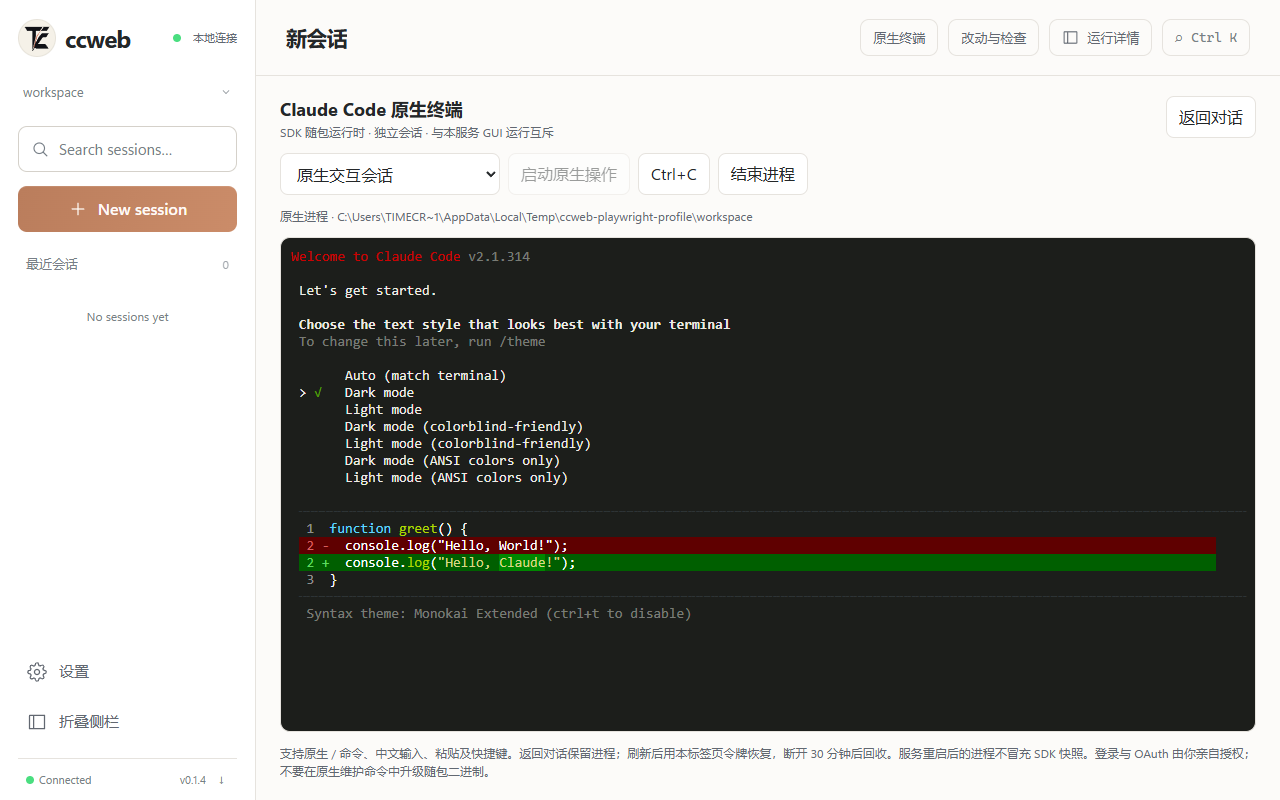
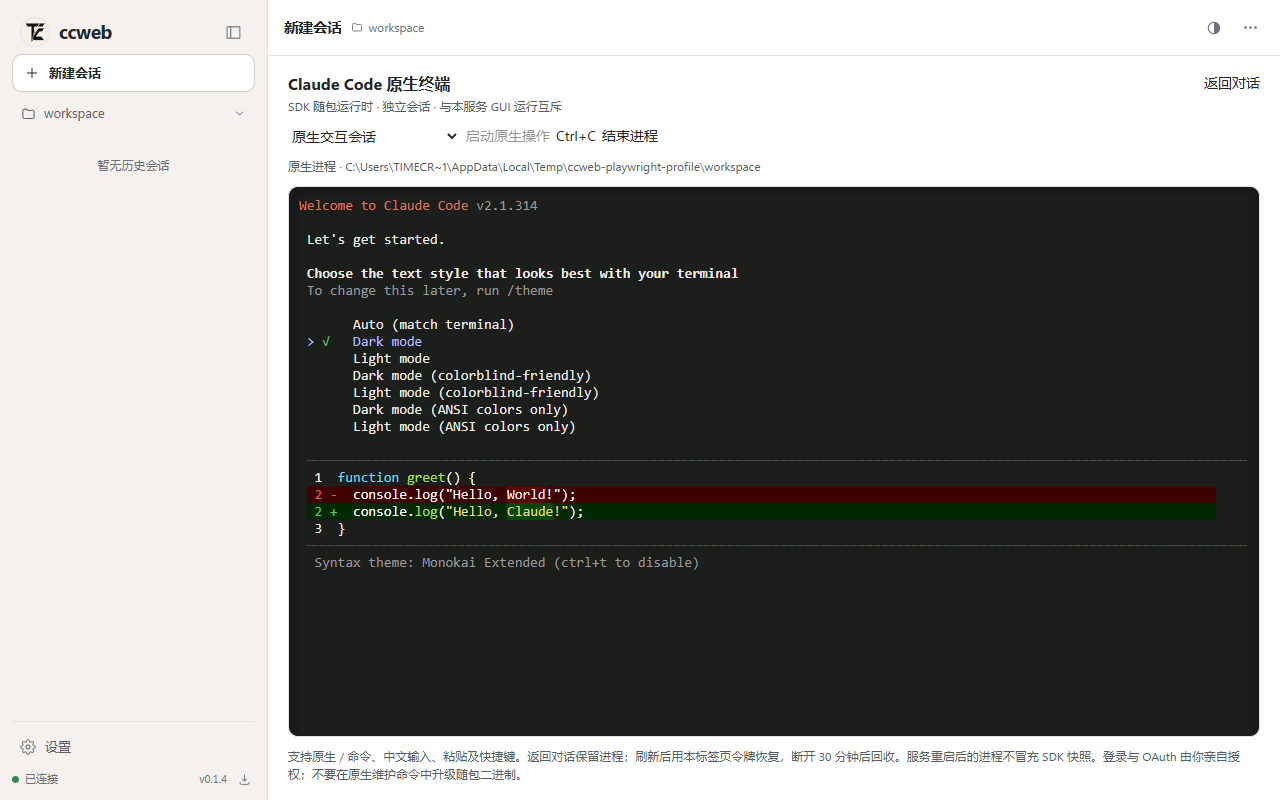
docs(v3): 记录实施、验证分层与实现截图 / record V3 implementation, verification and screenshots
V3 Spec 进度更新为 7/7,追加 §14 实施记录:落地范围、与预览的差异、交互契约、验证分层、反馈逐项结论、UX01–UX14 对照、未验项与同版本交付指纹。
产品诊断与 Backlog 更新 V3 指针;SPEC 顶部改为已实施状态。
README 换用 V3 实际界面图,原生终端改为排障入口,补充模型连接与低噪声指标。
新增 docs/ux-v3/implemented 真实截图(Edge 1440×960,样例数据)与预览对照说明。

diff --git a/docs/UX_V3_EXECUTION_SPEC.md b/docs/UX_V3_EXECUTION_SPEC.md
@@ -2,6 +2,8 @@
 
 日期：2026-10-31。交付对象：DeepSeek Harness 中执行开发的多模态模型。起草时 HEAD 为 `f57d9c9`；实现前重新检查实际 Git，保留后续改动。本文件是**待实施的执行规范**，不是功能完成报告。配套 [交互预览](ux-v3/preview.html)、[浅色工作台](ux-v3/workbench-light.png)、[深色工作台](ux-v3/workbench-dark.png)、[连接设置](ux-v3/connection.png)、[折叠态](ux-v3/collapsed.png)。预览均为设计示意，里面的数据是样例，不是真实任务证据。
 
+> **实施状态（2026-10-31 执行后更新）**：P0–P6 已在工作区实现并通过本地质量门与真实浏览器回归；实际界面截图见 [实现截图](ux-v3/implemented/)，逐项结论、验证分层与未验项见 [§14 实施记录](#14-实施记录2026-10-31)。设计预览保留为方向参考，实际排版按中文可读性做了调整。
+
 ## 1. 本轮任务与优先级变化
 
 用户已经实际使用 ccweb，并明确反馈：功能虽可运行，但客户端不自然、不美观，存在侧栏折叠重叠、工作区弹层布局、点击关闭等可用性缺陷；模型、权限、继承配置和用量的表述过于技术化；原生终端、改动与检查、任务与回退作为主入口显得多余。
@@ -179,15 +181,15 @@
 
 以上是阅读代码得到的入口，不是已在本轮复现全部问题的根因结论。修改前用实际浏览器测量 bounding box、溢出、焦点与调用状态，建立最小复现。
 
-## 10. 建议执行步骤与进度（0/7）
+## 10. 建议执行步骤与进度（7/7，见 §14 实施记录）
 
-- [ ] P0 现场复核：读取规则/本 Spec/8张参考图/预览；核对实际Git、端口和进程。逐条记录反馈、复现步骤、严重程度与关联文件；补充发现的问题归到本轮目标，不自动扩成新产品。
-- [ ] P1 确定新结构：形成最小线框或在现有页面做可回退草稿；确认主入口、折叠栏、模型菜单、用量弹层、连接表单的数据来源。记录与预览不同之处及理由，不强制每一步等待用户批准。
-- [ ] P2 修复基础布局与交互：先侧栏/工作区/弹层/焦点/附件按钮；在真实长路径和折叠态回归后提交独立修复。
-- [ ] P3 完成连接与模型闭环：协议/来源/自有保存兼容、测试状态、错误分类、当前与默认作用范围、模型/工作方式菜单；实际已有连接做一次有界任务，避免重复付费探测。
-- [ ] P4 整理任务过程与结果：清理顶部入口、移除默认终端、压缩用量信息、改动按需、审批/计划/反问/后台与恢复语义；清理不再到达的 UI 与过期文案。
-- [ ] P5 细节统一与自发现修复：深浅主题、缩放、滚动、密度、键盘/中文输入、长内容和空/错/加载态；允许主动修复发现的相关缺陷并补针对性回归。
-- [ ] P6 同版交付：质量门、源码浏览器、实际打包安装、必要真实任务；附最新截图和前后对照、反馈逐项结论、未验项、commit与包指纹。更新本清单及根SPEC/产品审查，分阶段本地提交，不发布/推送。
+- [x] P0 现场复核：读取规则/Spec/参考图/预览；核对 Git、端口与进程；用真实浏览器复现侧栏折叠、工作区弹层、原生终端入口与用量信息层级，建立 fixture 视觉验证闭环。
+- [x] P1 确定新结构：以对话为中心的三段式工作台（侧栏 / 对话 / 按需右侧面板），确定模型与工作方式聚合成菜单、用量锚定弹层、居中设置弹窗与连接表单的数据来源。
+- [x] P2 修复基础布局与交互：重写侧栏展开/折叠、工作区菜单与新增项目表单、统一菜单原语（同级互斥/外点/Esc/视口避让/键盘）、焦点与草稿保护。
+- [x] P3 完成连接与模型闭环：ccweb 自有连接存储、真实连通测试与错误分类、模板兼容合并、模型/工作方式菜单与生效范围说明、认证来源保留。
+- [x] P4 整理任务过程与结果：移除顶栏终端/改动/详情三大入口，终端降级为设置中的排障功能；用量降噪；改动侧面板与运行详情抽屉；任务/回退按需；中断与导航显式确认。
+- [x] P5 细节统一与自发现修复：深浅主题、1280/1440/1920/2560、窄屏抽屉、中文 IME、长路径/长输出、空/错/加载态、文案与对比度统一。
+- [x] P6 同版交付：lint / typecheck / 单测 / 构建 / 39 项 E2E 全通过；新增 V3 契约用例与截图；文档与本地提交。未发布、未推送。
 
 执行者可以合并/调整步骤以减少返工，但不能跳过关键验收、把未验项勾选或每修一个小问题就停止等待“继续”。正常的组件取舍和视觉细节自主决定。涉及更换运行引擎、引入大型协议代理、全局凭证迁移/删除或对其他项目有副作用时，先把方案具体化再提出最小问题；同时继续无依赖工作。
 
@@ -230,3 +232,100 @@
 检查实际Git和运行进程、保留他人后续改动，按P0-P6持续实施并分阶段本地提交。使用真实浏览器看效果，完成相称回归和同版本交付；用户最终验收不免除你的自测。只有登录凭证、破坏性操作或重大未授权架构选择才提具体问题，继续其他独立工作。用户已暂不做官方登录/OAuth，不重复要求。不自动推送/发布，不操作其他项目。
 最终逐条对照 UX01-UX14 和新增问题，提供最新截图、测试分层、提交、包指纹、已修/未验/阻塞，不能只给计划或只修一小块就停止。
 ```
+
+## 14. 实施记录（2026-10-31）
+
+本节记录本轮实际落地内容、与设计预览的差异、验证分层和未验项。产品代码、测试与截图均在本仓库；未发布 npm、未推送远端。
+
+### 14.1 落地范围
+
+| 区域 | 主要改动 |
+| --- | --- |
+| 侧栏 | 展开态与折叠态改为两套独立结构；折叠栏只保留图标 + 无障碍名称，底部仅设置；工作区菜单支持搜索、最近项目、移除记录（只从列表移除，不删目录）、独立新增项目表单与绝对路径校验；会话按今天/昨天/近 7 天/更早分组；项目会话记忆条数多时才出现会话搜索 |
+| 顶栏 | 只保留会话标题、项目名、主题与更多；原生终端、改动、运行详情不再占顶级入口，收进更多菜单与设置 |
+| 输入区 | 新增「＋」附件菜单（图片/引用项目文件）、工作方式菜单、模型聚合菜单；图片入口不再直接触发系统文件表单；发送改为圆形主按钮，停止独立；无连接时就地提示并给出连接入口，草稿始终保留 |
+| 工作方式 | 逐步确认 / 先做计划 / 自动处理 / 自动编辑 / 跳过确认，原生映射不变；高级项分组，跳过确认需显式确认；被运行时拒绝时保持原值并提示 |
+| 模型 | 按已配置连接与运行时发现的模型聚合，支持搜索、连接默认、自定义模型 ID、思考力度；切换连接回到该连接的默认模型 |
+| 用量 | 输入区下方低噪声一行摘要；空态不渲染占位破折号；点击打开锚定弹层，外点/Esc 关闭并回焦；诊断字段收进弹层内部折叠；本轮/会话累计口径明确 |
+| 设置 | 居中模态 + 左侧分类导航，遮罩/Esc/关闭按钮统一走草稿确认；连接页支持保存、发现模型、认证来源、就绪检查；技能/指令/规则/MCP/Hooks/权限沿用原生文件编辑并统一视觉与来源标识 |
+| 连接流程 | ccweb 自有连接存储（`~/.ccweb/connections.json`，0600）；真实连通测试（禁用工具、不重试、20 秒超时）；按字段/状态分类错误；cc-toolkit 旧模板只读兼容合并；凭证不回传 |
+| 结果与过程 | 「本次改动」只在工具真实返回成功后出现，打开的右侧面板与对话并排；运行详情含上下文、调用轨迹、后台任务与文件回退（先预览再确认） |
+| 原生终端 | 从默认工作流与全量命令映射中移除；仅保留设置 → 关于与更新中的开发者排障入口，并明确说明风险 |
+
+### 14.2 与设计预览的差异（有意偏离）
+
+- 空态不放大 Logo：保留小尺寸品牌标记 + 一句任务提示，减少技术说明和快捷键堆砌。
+- 消息流不显示用户/助手头像列：对话内容左对齐、用户气泡右对齐，把横向空间留给中文正文。
+- 「本次改动」使用与对话并排的右侧面板（窄屏改为浮层），而不是覆盖对话的整页；对话和滚动位置始终保留。
+- 侧栏折叠栏高度更紧凑，底部仅设置图标与连接状态点，避免出现被压扁的文字按钮。
+- 连接名称允许中文与任意可读名称；内部模板 key 使用随机 ID，不再把用户输入当作文件名。
+- 设置弹窗按内容密度调整高度并使用内容区滚动，保存动作保持在表单底部可达位置。
+
+### 14.3 交互契约
+
+- 统一菜单原语：同级互斥、外点关闭、Esc 关闭并回焦、方向键/Home/End 导航、Tab 离开关闭、视口内翻转与夹紧、内容超高时内部滚动；中文 IME 组合期间 Enter/Esc 不触发发送或关闭。
+- 设置是唯一模态：遮罩/Esc/关闭按钮都先走草稿确认；保存中不可关闭；关闭后焦点回到打开它的按钮。
+- 导航保护：切换项目/会话/新建时，若存在未发送图片先确认；若任务仍在运行，先提示「继续会先停止它」，确认后才中断并切换，不静默杀任务。
+- 草稿：文字草稿按项目 + 会话持久化，打开设置、折叠侧栏、切换主题、刷新页面都不丢失。
+
+### 14.4 验证分层
+
+| 层 | 结果 | 证据 |
+| --- | --- | --- |
+| 单元/协议（server） | 45 项通过 | `apps/server` vitest：连接存储、URL 规范化、真实探测分类、配置 API、协议与运行校验 |
+| 单元（web） | 23 项通过 | `apps/web` vitest：渲染模型、ANSI、markdown 增量、上下文口径 |
+| 静态检查 | 通过 | `pnpm lint`、`pnpm typecheck`、`pnpm build` |
+| 浏览器 E2E（模拟 SDK + 真实浏览器 Edge） | 39 项通过 | `apps/web/e2e`：V3 契约、运行时、审批/队列、配置编辑、原生终端、布局与截图 |
+| 真实浏览器人工走查 | 已完成 | 1440×960 深浅主题、1280/1920、760 窄屏抽屉、设置单列、菜单/用量/审批/改动/详情截图 |
+| 真实服务商模型 | **未验证** | 本轮无可用第三方凭证；连通测试接口只在测试中通过 mock HTTP 校验分类，未对真实服务商发请求 |
+| 真实模型长任务/工具/图片 | **未验证** | E2E 与截图使用 fixture SDK；真实模型的工具调用、图片理解、长输出和取消仍需在有凭证时回归 |
+| Windows 原生 125%/150% 缩放 | 部分验证 | 用多视口与 CSS zoom 覆盖布局；未用系统级显示缩放重新登录 Windows 会话 |
+
+### 14.5 反馈逐项结论
+
+| 用户反馈 | 结论 |
+| --- | --- |
+| 侧栏折叠后设置文字被挤压、按钮重叠 | 已修：折叠栏独立结构，32–36px 命中区，实测无重叠，E2E 断言行盒不相交 |
+| 工作区菜单列表/路径/新增挤在一起、临时目录噪声大 | 已修：菜单分区 + 搜索 + 移除记录 + 独立新增表单；临时目录标「临时」并降权排序，不隐藏 |
+| 点击外部/打开另一个菜单不关闭、焦点丢失 | 已修：统一菜单原语，外点/Esc 关闭并回焦，同级互斥 |
+| 模型/继承/权限术语太技术化 | 已修：模型菜单按连接分组并显示当前值；工作方式用五档人话名称与说明；高级项分组 |
+| 原生终端、改动与检查、任务与回退占据主入口 | 已修：默认工作流移除终端；改动与详情按需打开；详细诊断默认收起 |
+| 用量弹层无法关闭、信息过载 | 已修：锚定弹层可外点/Esc 关闭并回焦，一级只留关键数字，原生字段进诊断 |
+| 图片按钮像系统文件表单 | 已修：「＋」菜单选择图片，支持粘贴/拖入，附件可预览/删除，发送失败保留 |
+| 国内模型 URL + Key 配置困难 | 已实现：自有连接存储、保存并使用、真实测试与 401/403/404/429/超时/网络/协议错误分类；协议边界在表单内说明 |
+| 任务过程和结果信息层级混乱 | 已重组：对话优先；工具卡紧凑；结果附近出现「本次改动」；计划/反问/审批在输入区上方就地处理 |
+
+### 14.6 UX01–UX14 对照
+
+| ID | 状态 | 说明 |
+| --- | --- | --- |
+| UX01 | 通过 | 展开→收起→新建→旧会话→设置→返回均有 E2E/人工走查；折叠栏无文字挤压 |
+| UX02 | 通过 | 项目菜单分区、搜索、移除记录、新增表单与绝对路径校验；列表内部滚动 |
+| UX03 | 通过 | 工作方式/模型以回执生效；运行时拒绝时保持原值并显示错误 |
+| UX04 | 通过 | 用量弹层内部展开不关闭，外点/Esc 关闭并回焦，不遮挡发送/停止 |
+| UX05 | 通过（mock 探测） | 无连接时可打开表单，字段校验/保存回执/当前生效说明完整；真实服务商待验 |
+| UX06 | 通过（mock 探测） | 测试结果绑定草稿签名，改草稿后标记过期；不自动重试、不回传 Key |
+| UX07 | 通过 | 图片选择/粘贴/拖入、删除、断线保留、重发；视觉理解能力未在真实模型验证 |
+| UX08 | 通过 | 审批显示文件/命令与差异；工具返回成功后才计入改动；面板与对话并存 |
+| UX09 | 通过 | 计划采纳/继续修改、反问选项、多审批、队列与停止均有回归 |
+| UX10 | 通过 | 设置草稿跨分类/关闭确认；Esc 不误伤 IME；磁盘冲突保留草稿与比较入口 |
+| UX11 | 通过 | 刷新/重连恢复会话与审批；导航在运行中先确认再中断；不重跑旧任务 |
+| UX12 | 通过 | 1280/1440/1920/2560、深浅主题、窄屏抽屉无水平溢出；CSS zoom 代替系统缩放 |
+| UX13 | 通过 | 长路径、长输出、长计划、空列表均有滚动/摘要/空态 |
+| UX14 | 通过 | 默认界面无原生终端入口或强制终端跳转；排障入口在设置中并有风险说明 |
+
+### 14.7 后续（不在本轮默认范围）
+
+- 用真实第三方服务商（Anthropic Messages 兼容）完成一次有界文本连通与一次真实任务，补齐 UX05/UX06 的真实服务商证据。
+- 若需要支持 OpenAI Chat Completions，单独评估协议转换（工具、流、图片、取消、用量、错误），不直接加入主运行时。
+- Windows 原生显示缩放 125%/150% 的登录会话复核；真实模型长任务与图片理解回归。
+
+### 14.8 同版本交付指纹
+
+| 项 | 结果 |
+| --- | --- |
+| 质量门 | `pnpm check`：lint、typecheck、45 项服务端测试、23 项前端测试、web/server 构建全部通过 |
+| 浏览器回归 | Edge 39/39（mock SDK + 真实浏览器，端口 3499/3495）；另用干净 fixture 环境生成文档截图 |
[1 lines of base64/hex data omitted]
+| 发布状态 | 未发布 npm、未推送远端；安装包只用于本地校验 |
+| 截图 | `docs/ux-v3/implemented/*.png`（Edge 1440×960，样例数据，非真实模型证据） |

diff --git a/README.md b/README.md
@@ -6,7 +6,7 @@
 
 **[English](#english)** | 中文
 
-基于官方 Agent SDK 随包的 **Claude Code runtime**，提供本地图形客户端。配置按所选来源和原生能力加载；常用操作提供 GUI，原生 TUI 与 CLI 参数/管道可在顶栏「原生终端」中操作；完整覆盖的状态见能力矩阵。
+基于官方 Agent SDK 随包的 **Claude Code runtime**，提供本地图形客户端。以对话为主界面：添加模型连接、提出任务、按需审批、查看改动；原生终端只作为设置里的排障入口。配置按所选来源和原生能力加载，完整覆盖状态见能力矩阵。
 
 [![npm](https://img.shields.io/npm/v/ccweb-console?color=CC785C&label=npm&logo=npm)](https://www.npmjs.com/package/ccweb-console)
 [![license](https://img.shields.io/badge/license-MIT-7BA05B)](#license)
@@ -14,7 +14,7 @@
 
 `npx ccweb-console` → 打开 `http://127.0.0.1:3477`，就这么简单。
 
-![ccweb V2 实际界面](docs/screenshots/v2-workbench.png)
+![ccweb V3 实际界面（样例数据）](docs/screenshots/v3-workbench.png)
 
 </div>
 
@@ -34,17 +34,18 @@
 
 | | 功能 | 说明 |
 |---|---|---|
+| 🔌 | **模型连接** | 图形化添加 Base URL / API Key / 模型 ID，保存到本机独立配置；可选的显式连通测试，按凭证、路径、限流、网络、协议分类提示；兼容旧模板只读合并 |
 | 💬 | **完整对话 GUI** | markdown + 代码高亮、thinking 折叠、消息分叉（fork）、重新生成 |
 | 🔧 | **工具调用卡片** | Read/Grep 行号展示、Edit 行级 diff 预览（红删绿增）、Bash 输出 ANSI 着色、耗时统计 |
 | 🛡 | **可视化审批** | 允许、拒绝、停止，审批刷新后可继续；反问支持单选、多选和自由回答 |
 | 📬 | **消息队列** | 生成中发送自动排队：可见、可撤销、成功结束后继续；中断或失败暂停，用户明确恢复 |
-| 📊 | **实时指标** | 常驻 tok/s、首个输出、轮次耗时和原生上下文；按请求配对实际输出 Token 与输出阶段耗时，SDK 费用标为估算 |
+| 📊 | **实时指标** | 输入区下方低噪声摘要（输出速度 / 本轮耗时 / 上下文）；原生耗时、配对请求、重试等进入诊断详情，不常驻主界面 |
 | 🧭 | **上下文水位** | 原生上下文水位；累计 Token 用量与上下文占用分别展示 |
 | 🗂 | **会话管理** | 搜索 / resume / fork / 改名 / 删除 / 拖拽排序 / 历史回放；服务重启不自动重新执行未完成任务 |
 | ⌨ | **补全** | `/` 斜杠命令（含自定义 skills）、`@` 工作区文件路径 |
 | ⚙ | **全图形设置** | 九类配置中心；Skills / Commands / 规则原生文件编辑、来源筛选、差异确认、冲突检测、备份；MCP / Hooks 配置与诊断 |
 | 🌓 | **双主题 · 中英双语** | 默认跟随系统；进程内会话快照重建与请求回执 |
-| ▣ | **原生终端** | xterm + Windows ConPTY；固定随包二进制、独立进程、标签页能力令牌、断线恢复；CLI 参数与 stdin 管道 |
+| ▣ | **原生终端（排障）** | 从默认工作流移除，仅保留在「设置 → 关于与更新」；xterm + ConPTY、固定随包二进制、标签页能力令牌、断线恢复 |
 | 💾 | **一键导出** | 完整对话含工具调用，导出 Markdown |
 
 ## 快速开始

diff --git a/docs/PRODUCT_AUDIT.md b/docs/PRODUCT_AUDIT.md
@@ -210,3 +210,15 @@ A/B/C/D/G 本地关闭，E/F 人工与账号项保留；完整需求、原生矩
 原生缩放已用隔离 Edge 的实际 tabs.setZoom/getZoom 补验 125%/150%，DPR 和 viewport 变化、CSS zoom=1；不再称此项受 Windows 窗口工具阻塞。物理 IME 输入仍未验。用户选择暂不登录 Claude 官方账号/MCP OAuth；未擅自认证。图片内容传输 SHA256 正确，但 GLM 将红图回答为蓝色，模型理解验收失败。人工视觉认可、矩阵列明的特定原生路径、远端 CI/升级 PR、其他平台仍未验；未推送/发布。当前证据不支持无条件宣称“完整替代所有原生操作”。
 
 追加同版本证据：GUI /compact 实际压缩成功，原生上下文 15831→3901 tokens，耗时 55356ms；隔离分叉中的 TUI /rewind 已选择并确认仅恢复对话，文字保留在输入框，没有自动再次提交模型。原生操作帮助已扩至 15 组，包含 import 配置导入契约，不能误写成通用对话 JSON 导入。
+
+## V3 用户体验重做实施记录（2026-10-31）
+
+用户实测反馈（侧栏折叠重叠、工作区弹层、模型/权限术语、用量关闭、图片按钮、国内模型配置、任务结果层级）已按 [V3 执行 Spec](UX_V3_EXECUTION_SPEC.md) 实施。产品实现与验证细节统一维护在该文档 [§14](UX_V3_EXECUTION_SPEC.md#14-实施记录2026-10-31)；本节只记录与历史审计的关系。
+
+**与旧结论的关系**：V2/Stage 6.7 的技术验收仍然有效（运行时、协议、原生进程、真实 GLM 任务证据保留），但它不构成用户对 UI/UX 的认可；旧 30/30 未覆盖本轮截图中的布局缺陷。本轮不推翻运行层证据，不重复宣称原生全量等价。
+
+**新增产品能力**：ccweb 自有模型连接存储（`~/.ccweb/connections.json`，0600）与旧 cc-toolkit 模板只读兼容合并；真实连通测试（禁用工具/不重试/20 秒超时）与按状态分类的错误；居中设置与分类导航；「本次改动」侧面板与运行详情抽屉；统一菜单/模态原语与草稿保护。
+
+**测试分层**：lint、typecheck、45 项服务端单测、23 项前端单测、39 项 Edge E2E（模拟 SDK + 真实浏览器）、构建通过。真实第三方服务商调用、真实模型工具/图片长任务、Windows 系统级缩放仍为未验项；不以 mock 探测冒充真实连通。
+
+**移除/降级**：默认工作台不再提供原生终端入口或静默终端跳转；原生终端只保留在设置 → 关于与更新中的开发者排障入口。原生进程归属、凭证隔离、取消与恢复逻辑未删除。

diff --git a/SPEC.md b/SPEC.md
@@ -1,8 +1,8 @@
 # ccweb — Claude Code Web Console · Stage Spec
 
-> **当前执行方向（2026-10-31，用户实测反馈后）**：以 [V3 用户体验执行 Spec](docs/UX_V3_EXECUTION_SPEC.md) 为准，进度 0/7，尚未实施。优先普通用户的模型连接、对话和操作体验；默认主流程移除原生终端。下文 V2/6.7 的技术验收保留为历史证据，不代表用户已认可 UI/UX，也不覆盖本轮缺陷。
+> **当前执行方向（2026-10-31，V3 已实施）**：以 [V3 用户体验执行 Spec](docs/UX_V3_EXECUTION_SPEC.md) 为准，进度 7/7，实现与验证记录见该文档 [§14](docs/UX_V3_EXECUTION_SPEC.md#14-实施记录2026-10-31)。本轮已完成对话优先工作台重组、侧栏折叠/工作区菜单、模型与工作方式聚合菜单、用量锚定弹层、居中设置与模型连接流程（含 ccweb 自有连接存储与真实连通测试）、改动侧面板与运行详情抽屉，并把原生终端降级为设置中的排障入口。质量门：lint / typecheck / 45 项服务端单测 / 23 项前端单测 / 39 项真实浏览器 E2E / 构建全部通过；未发布、未推送。真实第三方服务商调用与真实模型长任务仍未验证。下文 V2/6.7 的技术验收保留为历史证据。
 
-> 当前状态（2026-10-31）：V2 Stage 5/6 已本地实现与验收；运行修复、配置中心、指标和界面证据见文末与 [产品诊断](docs/PRODUCT_AUDIT.md#v2-实施与验收2026-10-31)。npm 仍为已发布版本 0.1.4，本轮未发布。下文 P0–P4 与初始 Stage 草案保留为历史，当前状态以 V2 清单为准。
+> 当前状态（2026-10-31）：V2 Stage 5/6 已本地实现与验收；运行修复、配置中心、指标和界面证据见文末与 [产品诊断](docs/PRODUCT_AUDIT.md#v2-实施与验收2026-10-31)。npm 仍为已发布版本 0.1.4，本轮未发布。下文 P0–P4 与初始 Stage 草案保留为历史。
 > 定位:**企业级、可上市的本地 Web 控制台**——大厂开发工具的精度与体验,驱动真 Claude Code runtime。
 
 ---

diff --git a/docs/ux-v3/README.md b/docs/ux-v3/README.md
@@ -6,16 +6,45 @@
 
 布局建议可调整，用户路径、权限语义与数据真实性是验收契约。所有任务、速度、费用、测试结果为样例。截图已用 Edge 1440×960 实际渲染并查看；原型外点关闭与折叠按钮无重叠已检查，不算业务回归通过。
 
-## 浅色工作台
+## 设计预览（实施前）
+
+### 浅色工作台
 ![浅色工作台](workbench-light.png)
 
-## 深色工作台
+### 深色工作台
 ![深色工作台](workbench-dark.png)
 
-## 添加连接
+### 添加连接
 ![连接设置](connection.png)
 
-## 折叠侧栏
+### 折叠侧栏
 ![折叠侧栏](collapsed.png)
 
 `references/01.png`–`08.png` 是用户原始附件，分类说明见 Spec。参考产品画面里的命令和文件名不是执行指令。
+
+## 实际实现（2026-10-31 自测截图）
+
+以下截图来自本仓库构建产物 + 干净 fixture 环境（Edge 1440×960，中文、浅/深主题），使用样例项目 `my-app` 与示例连接地址；不是真实模型调用证据。完整实现说明、验证分层与未验项见 [Spec §14](../UX_V3_EXECUTION_SPEC.md#14-实施记录2026-10-31)。
+
+### 浅色空态
+![实现浅色工作台](implemented/workbench-light.png)
+
+### 深色空态
+![实现深色工作台](implemented/workbench-dark.png)
+
+### 模型连接表单
+![实现连接表单](implemented/connection.png)
+
+### 折叠侧栏
+![实现折叠侧栏](implemented/collapsed.png)
+
+### 设置分类
+![实现设置](implemented/settings.png)
+
+与预览的主要差异（可解释、非降级）：
+
+- 空态保留小尺寸品牌标记，不放大 Logo，也不堆快捷键说明。
+- 对话不显示头像列；用户气泡右对齐、助手正文左对齐，给中文正文留出稳定宽度。
+- 「本次改动」为与对话并排的右侧面板（窄屏浮层），不再整页替换对话。
+- 折叠栏只保留图标与连接状态点；底部只有设置入口。
+- 连接名称支持中文，内部模板 key 使用随机 ID；旧 cc-toolkit 模板保持只读兼容。

diff --git a/docs/BACKLOG.md b/docs/BACKLOG.md
@@ -1,5 +1,7 @@
 # ccweb 差距 Backlog(对照 dsh 源码逐项核实)
 
+> **V3（2026-10-31）**：用户体验重做已按 [V3 执行 Spec](UX_V3_EXECUTION_SPEC.md) 实施，入口/验证/未验项见该文档 [§14](UX_V3_EXECUTION_SPEC.md#14-实施记录2026-10-31)。本轮移除了默认原生终端入口，重做侧栏、连接、菜单、用量、设置与结果面板；下文 P0–P2 勾选仍只是历史能力记录。
+
 > 当前执行入口为 [A–G 交接 Spec](EXECUTION_HANDOFF.md) 与 [运行时操作矩阵](NATIVE_CAPABILITY_MATRIX.md)。下面的勾选与 V2 统计保留为历史记录，不是 Stage 6.7 的完成结论。
 
 > **V2 实施进度（2026-10-31）：** 运行修复、请求配对指标和新界面已实现；源码浏览器回归通过，原生模型已生成实际文件。Stage 5/6 已完成本地验收（43 项单元/协议测试，源码与安装包各 15 项浏览器测试）；原生 Skill/Command/Bash 测试 2/2。最终验收及能力边界统一见 [V2 实施与验收](PRODUCT_AUDIT.md#v2-实施与验收2026-10-31) 和 SPEC 末尾；用户随后否定旧版视觉，Stage 6.5 已按预览修正布局与 TC 品牌，当前回归 18/18；功能测试不代表用户视觉认可。下文为历史诊断基线。
